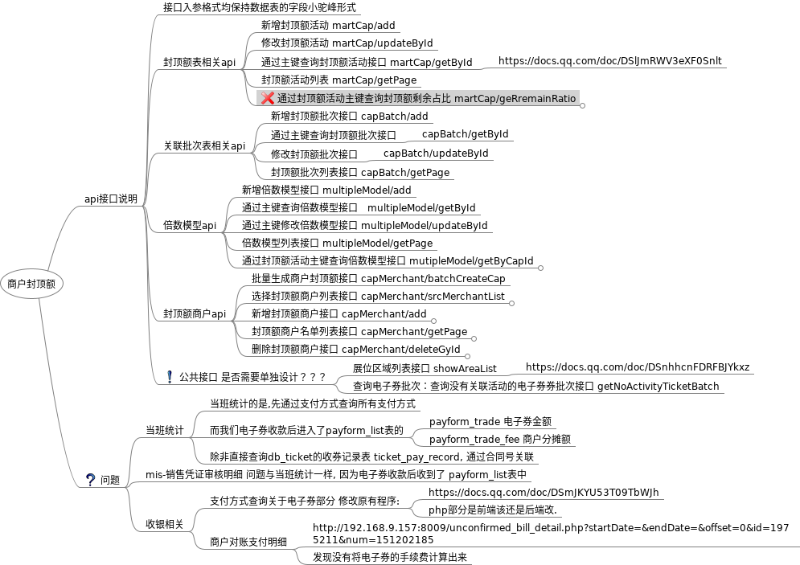
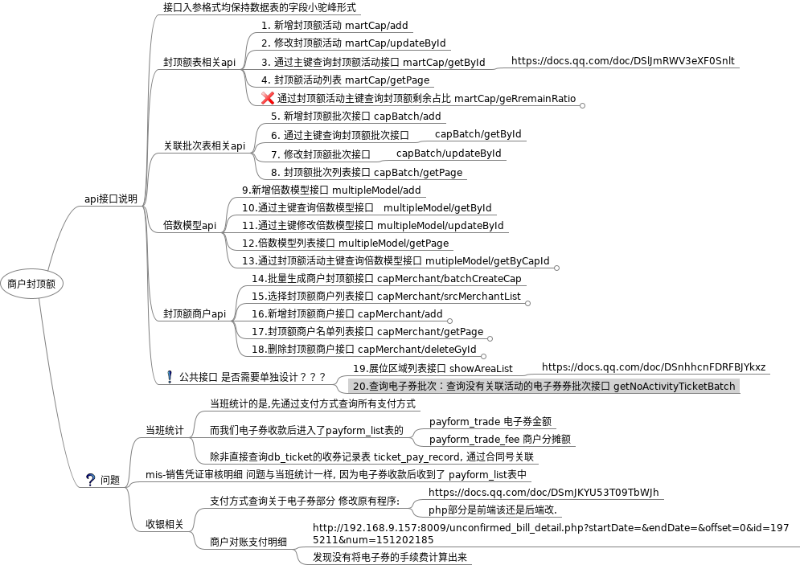
1130

Changed region(s): [[0.2812, 0.0301, 0.9688, 0.7221]]

diff --git a/mm/商户封顶额.mm b/mm/商户封顶额.mm
@@ -4,57 +4,57 @@
 <node CREATED="1631155777618" ID="ID_1544436845" MODIFIED="1631158313344" POSITION="right" TEXT="api&#x63a5;&#x53e3;&#x8bf4;&#x660e;">
 <node CREATED="1631175001482" ID="ID_1026492796" MODIFIED="1631175063843" TEXT="&#x63a5;&#x53e3;&#x5165;&#x53c2;&#x683c;&#x5f0f;&#x5747;&#x4fdd;&#x6301;&#x6570;&#x636e;&#x8868;&#x7684;&#x5b57;&#x6bb5;&#x5c0f;&#x9a7c;&#x5cf0;&#x5f62;&#x5f0f;"/>
 <node CREATED="1631158321131" ID="ID_535376168" MODIFIED="1631158331984" TEXT="&#x5c01;&#x9876;&#x989d;&#x8868;&#x76f8;&#x5173;api">
-<node CREATED="1631155762479" ID="ID_1928684480" MODIFIED="1631156201814" TEXT="&#x65b0;&#x589e;&#x5c01;&#x9876;&#x989d;&#x6d3b;&#x52a8; martCap/add"/>
-<node CREATED="1631156204978" ID="ID_154893607" MODIFIED="1631157254772" TEXT="&#x4fee;&#x6539;&#x5c01;&#x9876;&#x989d;&#x6d3b;&#x52a8; martCap/updateById"/>
-<node CREATED="1631156587994" ID="ID_694474442" MODIFIED="1631332258316" TEXT="&#x901a;&#x8fc7;&#x4e3b;&#x952e;&#x67e5;&#x8be2;&#x5c01;&#x9876;&#x989d;&#x6d3b;&#x52a8;&#x63a5;&#x53e3; martCap/getById">
+<node CREATED="1631155762479" ID="ID_1928684480" MODIFIED="1638261804975" TEXT="1. &#x65b0;&#x589e;&#x5c01;&#x9876;&#x989d;&#x6d3b;&#x52a8; martCap/add"/>
+<node CREATED="1631156204978" ID="ID_154893607" MODIFIED="1638261807997" TEXT="2. &#x4fee;&#x6539;&#x5c01;&#x9876;&#x989d;&#x6d3b;&#x52a8; martCap/updateById"/>
+<node CREATED="1631156587994" ID="ID_694474442" MODIFIED="1638261814391" TEXT="3. &#x901a;&#x8fc7;&#x4e3b;&#x952e;&#x67e5;&#x8be2;&#x5c01;&#x9876;&#x989d;&#x6d3b;&#x52a8;&#x63a5;&#x53e3; martCap/getById">
 <node CREATED="1631332116768" ID="ID_317305262" MODIFIED="1631332117613" TEXT="https://docs.qq.com/doc/DSlJmRWV3eXF0Snlt"/>
 </node>
-<node CREATED="1631156745359" ID="ID_1354043171" MODIFIED="1631157267737" TEXT="&#x5c01;&#x9876;&#x989d;&#x6d3b;&#x52a8;&#x5217;&#x8868; martCap/getPage"/>
+<node CREATED="1631156745359" ID="ID_1354043171" MODIFIED="1638261821547" TEXT="4. &#x5c01;&#x9876;&#x989d;&#x6d3b;&#x52a8;&#x5217;&#x8868; martCap/getPage"/>
 <node CREATED="1631955299629" FOLDED="true" ID="ID_1646963912" MODIFIED="1632798643524" TEXT="&#x901a;&#x8fc7;&#x5c01;&#x9876;&#x989d;&#x6d3b;&#x52a8;&#x4e3b;&#x952e;&#x67e5;&#x8be2;&#x5c01;&#x9876;&#x989d;&#x5269;&#x4f59;&#x5360;&#x6bd4; martCap/geRremainRatio">
 <icon BUILTIN="button_cancel"/>
 <node CREATED="1631955308965" ID="ID_336090403" MODIFIED="1631955317720" TEXT="https://docs.qq.com/doc/DSmlwYnBDdlRjYmhq"/>
 </node>
 </node>
 <node CREATED="1631158339788" ID="ID_210760330" MODIFIED="1631158344905" TEXT="&#x5173;&#x8054;&#x6279;&#x6b21;&#x8868;&#x76f8;&#x5173;api">
-<node CREATED="1631177695849" ID="ID_1843750656" MODIFIED="1631177715471" TEXT="&#x65b0;&#x589e;&#x5c01;&#x9876;&#x989d;&#x6279;&#x6b21;&#x63a5;&#x53e3; capBatch/add"/>
-<node CREATED="1631178921269" ID="ID_87451604" MODIFIED="1631178922274" TEXT="&#x901a;&#x8fc7;&#x4e3b;&#x952e;&#x67e5;&#x8be2;&#x5c01;&#x9876;&#x989d;&#x6279;&#x6b21;&#x63a5;&#x53e3;">
+<node CREATED="1631177695849" ID="ID_1843750656" MODIFIED="1638261830023" TEXT="5. &#x65b0;&#x589e;&#x5c01;&#x9876;&#x989d;&#x6279;&#x6b21;&#x63a5;&#x53e3; capBatch/add"/>
+<node CREATED="1631178921269" ID="ID_87451604" MODIFIED="1638261835214" TEXT="6. &#x901a;&#x8fc7;&#x4e3b;&#x952e;&#x67e5;&#x8be2;&#x5c01;&#x9876;&#x989d;&#x6279;&#x6b21;&#x63a5;&#x53e3;">
 <node CREATED="1631178927899" ID="ID_818036420" MODIFIED="1631178928718" TEXT="capBatch/getById"/>
 </node>
-<node CREATED="1631179277040" ID="ID_1653489539" MODIFIED="1631179305147" TEXT="&#x4fee;&#x6539;&#x5c01;&#x9876;&#x989d;&#x6279;&#x6b21;&#x63a5;&#x53e3;">
+<node CREATED="1631179277040" ID="ID_1653489539" MODIFIED="1638261841348" TEXT="7. &#x4fee;&#x6539;&#x5c01;&#x9876;&#x989d;&#x6279;&#x6b21;&#x63a5;&#x53e3;">
 <node CREATED="1631179293016" ID="ID_239366208" MODIFIED="1631179301841" TEXT="capBatch/updateById"/>
 </node>
-<node CREATED="1631177716903" ID="ID_1856830905" MODIFIED="1631178033720" TEXT="&#x5c01;&#x9876;&#x989d;&#x6279;&#x6b21;&#x5217;&#x8868;&#x63a5;&#x53e3; capBatch/getPage"/>
+<node CREATED="1631177716903" ID="ID_1856830905" MODIFIED="1638261848594" TEXT="8. &#x5c01;&#x9876;&#x989d;&#x6279;&#x6b21;&#x5217;&#x8868;&#x63a5;&#x53e3; capBatch/getPage"/>
 </node>
 <node CREATED="1631242500733" ID="ID_1603448258" MODIFIED="1631242508225" TEXT="&#x500d;&#x6570;&#x6a21;&#x578b;api">
-<node CREATED="1631242509328" ID="ID_379472080" MODIFIED="1631242519097" TEXT="&#x65b0;&#x589e;&#x500d;&#x6570;&#x6a21;&#x578b;&#x63a5;&#x53e3; multipleModel/add"/>
-<node CREATED="1631242520732" ID="ID_1486258692" MODIFIED="1631242543040" TEXT="&#x901a;&#x8fc7;&#x4e3b;&#x952e;&#x67e5;&#x8be2;&#x500d;&#x6570;&#x6a21;&#x578b;&#x63a5;&#x53e3;&#x3000;multipleModel/getById"/>
-<node CREATED="1631242679577" ID="ID_1628963378" MODIFIED="1631242685866" TEXT="&#x901a;&#x8fc7;&#x4e3b;&#x952e;&#x4fee;&#x6539;&#x500d;&#x6570;&#x6a21;&#x578b;&#x63a5;&#x53e3; multipleModel/updateById"/>
-<node CREATED="1631242724001" ID="ID_450318766" MODIFIED="1631243393798" TEXT="&#x500d;&#x6570;&#x6a21;&#x578b;&#x5217;&#x8868;&#x63a5;&#x53e3; multipleModel/getPage"/>
-<node CREATED="1631331191821" FOLDED="true" ID="ID_1131632238" MODIFIED="1631332121492" TEXT="&#x901a;&#x8fc7;&#x5c01;&#x9876;&#x989d;&#x6d3b;&#x52a8;&#x4e3b;&#x952e;&#x67e5;&#x8be2;&#x500d;&#x6570;&#x6a21;&#x578b;&#x63a5;&#x53e3; mutipleModel/getByCapId">
+<node CREATED="1631242509328" ID="ID_379472080" MODIFIED="1638261853997" TEXT="9.&#x65b0;&#x589e;&#x500d;&#x6570;&#x6a21;&#x578b;&#x63a5;&#x53e3; multipleModel/add"/>
+<node CREATED="1631242520732" ID="ID_1486258692" MODIFIED="1638261862053" TEXT="10.&#x901a;&#x8fc7;&#x4e3b;&#x952e;&#x67e5;&#x8be2;&#x500d;&#x6570;&#x6a21;&#x578b;&#x63a5;&#x53e3;&#x3000;multipleModel/getById"/>
+<node CREATED="1631242679577" ID="ID_1628963378" MODIFIED="1638261867253" TEXT="11.&#x901a;&#x8fc7;&#x4e3b;&#x952e;&#x4fee;&#x6539;&#x500d;&#x6570;&#x6a21;&#x578b;&#x63a5;&#x53e3; multipleModel/updateById"/>
+<node CREATED="1631242724001" ID="ID_450318766" MODIFIED="1638261872786" TEXT="12.&#x500d;&#x6570;&#x6a21;&#x578b;&#x5217;&#x8868;&#x63a5;&#x53e3; multipleModel/getPage"/>
+<node CREATED="1631331191821" FOLDED="true" ID="ID_1131632238" MODIFIED="1638261877661" TEXT="13.&#x901a;&#x8fc7;&#x5c01;&#x9876;&#x989d;&#x6d3b;&#x52a8;&#x4e3b;&#x952e;&#x67e5;&#x8be2;&#x500d;&#x6570;&#x6a21;&#x578b;&#x63a5;&#x53e3; mutipleModel/getByCapId">
 <node CREATED="1631331199904" ID="ID_1412317811" MODIFIED="1631331215755" TEXT="https://docs.qq.com/doc/DSnZvSlJGTmNSekpa"/>
 </node>
 </node>
 <node CREATED="1631244236807" ID="ID_681664990" MODIFIED="1631244248115" TEXT="&#x5c01;&#x9876;&#x989d;&#x5546;&#x6237;api">
-<node CREATED="1631244815092" ID="ID_1996656963" MODIFIED="1631254965368" TEXT="&#x6279;&#x91cf;&#x751f;&#x6210;&#x5546;&#x6237;&#x5c01;&#x9876;&#x989d;&#x63a5;&#x53e3; capMerchant/batchCreateCap"/>
-<node CREATED="1631259190019" FOLDED="true" ID="ID_599472952" MODIFIED="1631260172480" TEXT="&#x9009;&#x62e9;&#x5c01;&#x9876;&#x989d;&#x5546;&#x6237;&#x5217;&#x8868;&#x63a5;&#x53e3; capMerchant/srcMerchantList">
+<node CREATED="1631244815092" ID="ID_1996656963" MODIFIED="1638261883972" TEXT="14.&#x6279;&#x91cf;&#x751f;&#x6210;&#x5546;&#x6237;&#x5c01;&#x9876;&#x989d;&#x63a5;&#x53e3; capMerchant/batchCreateCap"/>
+<node CREATED="1631259190019" FOLDED="true" ID="ID_599472952" MODIFIED="1638261889080" TEXT="15.&#x9009;&#x62e9;&#x5c01;&#x9876;&#x989d;&#x5546;&#x6237;&#x5217;&#x8868;&#x63a5;&#x53e3; capMerchant/srcMerchantList">
 <node CREATED="1631260170417" ID="ID_503085534" MODIFIED="1631260171070" TEXT="https://docs.qq.com/doc/DSnhhcnFDRFBJYkxz"/>
 </node>
-<node CREATED="1631262176899" FOLDED="true" ID="ID_355076717" MODIFIED="1631262207371" TEXT="&#x65b0;&#x589e;&#x5c01;&#x9876;&#x989d;&#x5546;&#x6237;&#x63a5;&#x53e3; capMerchant/add">
+<node CREATED="1631262176899" FOLDED="true" ID="ID_355076717" MODIFIED="1638261894134" TEXT="16.&#x65b0;&#x589e;&#x5c01;&#x9876;&#x989d;&#x5546;&#x6237;&#x63a5;&#x53e3; capMerchant/add">
 <node CREATED="1631262204306" ID="ID_929639619" MODIFIED="1631262205096" TEXT="https://docs.qq.com/doc/DSnhhcnFDRFBJYkxz"/>
 </node>
-<node CREATED="1631264234937" FOLDED="true" ID="ID_1556457572" MODIFIED="1631332122910" TEXT="&#x5c01;&#x9876;&#x989d;&#x5546;&#x6237;&#x540d;&#x5355;&#x5217;&#x8868;&#x63a5;&#x53e3; capMerchant/getPage">
+<node CREATED="1631264234937" FOLDED="true" ID="ID_1556457572" MODIFIED="1638261900180" TEXT="17.&#x5c01;&#x9876;&#x989d;&#x5546;&#x6237;&#x540d;&#x5355;&#x5217;&#x8868;&#x63a5;&#x53e3; capMerchant/getPage">
 <node CREATED="1631264240944" ID="ID_1428002284" MODIFIED="1631264249474" TEXT="https://docs.qq.com/doc/DSnZvSlJGTmNSekpa"/>
 </node>
-<node CREATED="1631265038701" FOLDED="true" ID="ID_395408290" MODIFIED="1631332123727" TEXT="&#x5220;&#x9664;&#x5c01;&#x9876;&#x989d;&#x5546;&#x6237;&#x63a5;&#x53e3; capMerchant/deleteGyId">
+<node CREATED="1631265038701" FOLDED="true" ID="ID_395408290" MODIFIED="1638261904732" TEXT="18.&#x5220;&#x9664;&#x5c01;&#x9876;&#x989d;&#x5546;&#x6237;&#x63a5;&#x53e3; capMerchant/deleteGyId">
 <node CREATED="1631265061293" ID="ID_1819094653" MODIFIED="1631265061753" TEXT="https://docs.qq.com/doc/DSnZvSlJGTmNSekpa"/>
 </node>
 </node>
 <node CREATED="1631259722780" ID="ID_276262822" MODIFIED="1631260071423" TEXT="&#x516c;&#x5171;&#x63a5;&#x53e3; &#x662f;&#x5426;&#x9700;&#x8981;&#x5355;&#x72ec;&#x8bbe;&#x8ba1;&#xff1f;&#xff1f;&#xff1f;">
 <icon BUILTIN="yes"/>
-<node CREATED="1631259733418" ID="ID_1152755290" MODIFIED="1631332232936" TEXT="&#x5c55;&#x4f4d;&#x533a;&#x57df;&#x5217;&#x8868;&#x63a5;&#x53e3; showAreaList ">
+<node CREATED="1631259733418" ID="ID_1152755290" MODIFIED="1638261953196" TEXT="19.&#x5c55;&#x4f4d;&#x533a;&#x57df;&#x5217;&#x8868;&#x63a5;&#x53e3; showAreaList ">
 <node CREATED="1631259753683" ID="ID_615419343" MODIFIED="1631260039508" TEXT="https://docs.qq.com/doc/DSnhhcnFDRFBJYkxz"/>
 </node>
-<node CREATED="1631158346204" ID="ID_1072798813" MODIFIED="1631159284983" TEXT="&#x67e5;&#x8be2;&#x7535;&#x5b50;&#x5238;&#x6279;&#x6b21;&#xff1a;&#x67e5;&#x8be2;&#x6ca1;&#x6709;&#x5173;&#x8054;&#x6d3b;&#x52a8;&#x7684;&#x7535;&#x5b50;&#x5238;&#x5238;&#x6279;&#x6b21;&#x63a5;&#x53e3; getNoActivityTicketBatch"/>
+<node CREATED="1631158346204" ID="ID_1072798813" MODIFIED="1638261959325" TEXT="20.&#x67e5;&#x8be2;&#x7535;&#x5b50;&#x5238;&#x6279;&#x6b21;&#xff1a;&#x67e5;&#x8be2;&#x6ca1;&#x6709;&#x5173;&#x8054;&#x6d3b;&#x52a8;&#x7684;&#x7535;&#x5b50;&#x5238;&#x5238;&#x6279;&#x6b21;&#x63a5;&#x53e3; getNoActivityTicketBatch"/>
 </node>
 </node>
 <node CREATED="1631158316251" ID="ID_1891516854" MODIFIED="1631353141114" POSITION="right" TEXT="&#x95ee;&#x9898;">
